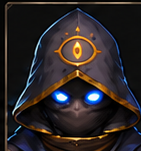
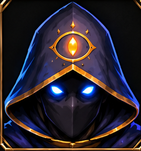
v1-15-30

diff --git a/public/tri-core.js b/public/tri-core.js
@@ -66,7 +66,7 @@ export class TriReferee{
     this.s={phase:'setup',round:1,turn:'A',roundStarterIndex:0,gameOver:false,result:null,idSeq:1,
       pieces:{A:[],B:[],C:[]},bases:[],bonuses:{A:[],B:[],C:[]},corpses:[],mirrors:[],pendingSlime:[],
       history:{A:[],B:[],C:[]},intel:{A:[],B:[],C:[]},impact:{A:[],B:[],C:[]},combatMarks:{A:[],B:[],C:[]},combatHold:{A:false,B:false,C:false},hints:{A:[],B:[],C:[]},seer:sets(),seerExpires:{A:false,B:false,C:false},activation:{A:null,B:null,C:null},roundActivations:{A:0,B:0,C:0},pendingCombat:null,doppelChoice:{A:null,B:null,C:null},eliminated:{A:false,B:false,C:false},controllers:{A:'human',B:'ai',C:'ai'},difficulty:'normal',
-      trees:[{coord:'A06',state:'live'},{coord:'B06',state:'live'},{coord:'C22',state:'live'}],rocks:['C06','B22','A22'],water:['C02','B18','A18'],swamps:['A17','B21','C05'],traps:{A:[],B:[],C:[]},spotReveals:{A:{},B:{},C:{}},replayEvent:null};
+      trees:[{coord:'A06',state:'live'},{coord:'B21',state:'live'},{coord:'C02',state:'live'}],rocks:['A17','B06','C21'],water:['A22','B18','C05'],swamps:['A02','B05','C18'],traps:{A:[],B:[],C:[]},spotReveals:{A:{},B:{},C:{}},replayEvent:null};
   }
   client(side){if(!TRI_SIDES.includes(side))throw Error('lado inválido');const run=fn=>(...args)=>{this.s.replayEvent=null;return fn(...args);};return Object.freeze({
     getView:()=>this.getView(side),selectPiece:run(id=>this.selectPiece(side,id)),cancelSelection:run(()=>this.cancelSelection(side)),cancelMode:run(()=>this.cancelMode(side)),startMove:run(()=>this.startMove(side)),moveStep:run(to=>this.moveStep(side,to)),stopMove:run(()=>this.stopMove(side)),startAttack:run(()=>this.startAttack(side)),attack:run(to=>this.attack(side,to)),selectPyroTarget:run(to=>this.selectPyroTarget(side,to)),confirmPyroAttack:run(()=>this.confirmPyroAttack(side)),startAbility:run(()=>this.startAbility(side)),useSeer:run(cells=>this.useSeer(side,cells)),raiseAt:run(c=>this.raiseAt(side,c)),placeMirror:run(c=>this.placeMirror(side,c)),awakenTree:run(c=>this.awakenTree(side,c)),placeTrap:run(c=>this.placeTrap(side,c)),bardBuff:run((id,stat)=>this.bardBuff(side,id,stat)),shieldLink:run((id=null)=>this.shieldLink(side,id)),endActivation:run(()=>this.endActivation(side)),chooseCombatPosition:run(advance=>this.chooseCombatPosition(side,advance)),sabotageBase:run((baseId,bonusId,targetId)=>this.sabotageBase(side,baseId,bonusId,targetId)),chooseDoppelCopy:run(copyNew=>this.chooseDoppelCopy(side,copyNew))
@@ -199,7 +199,7 @@ export class TriReferee{
   checkEnd(){const alive=TRI_SIDES.filter(s=>!this.s.eliminated[s]);if(alive.length===1){this.s.gameOver=true;this.s.result=alive[0];for(const s of TRI_SIDES)this.addHistory(s,`🏆 Jogador ${alive[0]} venceu a Arena.`);return true;}if(!alive.length){this.s.gameOver=true;this.s.result='draw';return true;}return false;}
   advance(afterSide){const hasLeft=s=>this.hasActivationLeft(s);if(!TRI_SIDES.some(hasLeft)){this.s.round++;for(const s of TRI_SIDES)for(const p of this.pieces(s)){p.activated=false;this.tickPieceEffects(p,'round');}this.s.roundActivations={A:0,B:0,C:0};this.processZombieRevives();this.s.roundStarterIndex=((Number(this.s.roundStarterIndex)||0)+1)%3;const order=[0,1,2].map(k=>TRI_SIDES[(this.s.roundStarterIndex+k)%3]);this.s.turn=order.find(hasLeft)||order.find(s=>!this.s.eliminated[s])||'A';for(const s of TRI_SIDES)this.addHistory(s,`🔄 Rodada ${this.s.round} começou. Ordem de prioridade: ${order.join(' → ')}.`);return;}const idx=TRI_SIDES.indexOf(afterSide);for(let k=1;k<=3;k++){const s=TRI_SIDES[(idx+k)%3];if(hasLeft(s)){this.s.turn=s;return;}}this.s.turn=afterSide;}
   exportState(){return JSON.stringify(this.s,(k,v)=>v instanceof Set?{__set:[...v]}:v);}
-  importState(raw){this.s=JSON.parse(raw,(k,v)=>v&&Array.isArray(v.__set)?new Set(v.__set):v);if(!this.s.trees)this.s.trees=[{coord:'A06',state:'live'},{coord:'B06',state:'live'},{coord:'C22',state:'live'}];if(!this.s.rocks)this.s.rocks=['C06','B22','A22'];if(!this.s.water)this.s.water=['C02','B18','A18'];if(!this.s.swamps)this.s.swamps=['A17','B21','C05'];if(!this.s.traps)this.s.traps={A:[],B:[],C:[]};if(!this.s.spotReveals)this.s.spotReveals={A:{},B:{},C:{}};if(this.s.roundStarterIndex==null)this.s.roundStarterIndex=0;if(!this.s.roundActivations)this.s.roundActivations={A:0,B:0,C:0};if(!this.s.impact)this.s.impact={A:[],B:[],C:[]};if(!this.s.combatMarks)this.s.combatMarks={A:[],B:[],C:[]};if(!this.s.combatHold)this.s.combatHold={A:false,B:false,C:false};if(this.s.replayEvent===undefined)this.s.replayEvent=null;for(const s of TRI_SIDES)if(!Array.isArray(this.s.impact[s]))this.s.impact[s]=this.s.impact[s]?[this.s.impact[s]]:[];for(const side of TRI_SIDES)for(const p of this.pieces(side)){if(!Array.isArray(p.effects))p.effects=[];if(p.bonusAH==null)p.bonusAH=0;if(p.turnsTaken==null)p.turnsTaken=0;if(!p.identity)p.identity=p.name;if(p.linkedToId===undefined)p.linkedToId=null;}}
+  importState(raw){this.s=JSON.parse(raw,(k,v)=>v&&Array.isArray(v.__set)?new Set(v.__set):v);if(!this.s.trees)this.s.trees=[{coord:'A06',state:'live'},{coord:'B21',state:'live'},{coord:'C02',state:'live'}];if(!this.s.rocks)this.s.rocks=['A17','B06','C21'];if(!this.s.water)this.s.water=['A22','B18','C05'];if(!this.s.swamps)this.s.swamps=['A02','B05','C18'];if(!this.s.traps)this.s.traps={A:[],B:[],C:[]};if(!this.s.spotReveals)this.s.spotReveals={A:{},B:{},C:{}};if(this.s.roundStarterIndex==null)this.s.roundStarterIndex=0;if(!this.s.roundActivations)this.s.roundActivations={A:0,B:0,C:0};if(!this.s.impact)this.s.impact={A:[],B:[],C:[]};if(!this.s.combatMarks)this.s.combatMarks={A:[],B:[],C:[]};if(!this.s.combatHold)this.s.combatHold={A:false,B:false,C:false};if(this.s.replayEvent===undefined)this.s.replayEvent=null;for(const s of TRI_SIDES)if(!Array.isArray(this.s.impact[s]))this.s.impact[s]=this.s.impact[s]?[this.s.impact[s]]:[];for(const side of TRI_SIDES)for(const p of this.pieces(side)){if(!Array.isArray(p.effects))p.effects=[];if(p.bonusAH==null)p.bonusAH=0;if(p.turnsTaken==null)p.turnsTaken=0;if(!p.identity)p.identity=p.name;if(p.linkedToId===undefined)p.linkedToId=null;}}
 
 }
 

diff --git a/src/tri-core.js b/src/tri-core.js
@@ -66,7 +66,7 @@ export class TriReferee{
     this.s={phase:'setup',round:1,turn:'A',roundStarterIndex:0,gameOver:false,result:null,idSeq:1,
       pieces:{A:[],B:[],C:[]},bases:[],bonuses:{A:[],B:[],C:[]},corpses:[],mirrors:[],pendingSlime:[],
       history:{A:[],B:[],C:[]},intel:{A:[],B:[],C:[]},impact:{A:[],B:[],C:[]},combatMarks:{A:[],B:[],C:[]},combatHold:{A:false,B:false,C:false},hints:{A:[],B:[],C:[]},seer:sets(),seerExpires:{A:false,B:false,C:false},activation:{A:null,B:null,C:null},roundActivations:{A:0,B:0,C:0},pendingCombat:null,doppelChoice:{A:null,B:null,C:null},eliminated:{A:false,B:false,C:false},controllers:{A:'human',B:'ai',C:'ai'},difficulty:'normal',
-      trees:[{coord:'A06',state:'live'},{coord:'B06',state:'live'},{coord:'C22',state:'live'}],rocks:['C06','B22','A22'],water:['C02','B18','A18'],swamps:['A17','B21','C05'],traps:{A:[],B:[],C:[]},spotReveals:{A:{},B:{},C:{}},replayEvent:null};
+      trees:[{coord:'A06',state:'live'},{coord:'B21',state:'live'},{coord:'C02',state:'live'}],rocks:['A17','B06','C21'],water:['A22','B18','C05'],swamps:['A02','B05','C18'],traps:{A:[],B:[],C:[]},spotReveals:{A:{},B:{},C:{}},replayEvent:null};
   }
   client(side){if(!TRI_SIDES.includes(side))throw Error('lado inválido');const run=fn=>(...args)=>{this.s.replayEvent=null;return fn(...args);};return Object.freeze({
     getView:()=>this.getView(side),selectPiece:run(id=>this.selectPiece(side,id)),cancelSelection:run(()=>this.cancelSelection(side)),cancelMode:run(()=>this.cancelMode(side)),startMove:run(()=>this.startMove(side)),moveStep:run(to=>this.moveStep(side,to)),stopMove:run(()=>this.stopMove(side)),startAttack:run(()=>this.startAttack(side)),attack:run(to=>this.attack(side,to)),selectPyroTarget:run(to=>this.selectPyroTarget(side,to)),confirmPyroAttack:run(()=>this.confirmPyroAttack(side)),startAbility:run(()=>this.startAbility(side)),useSeer:run(cells=>this.useSeer(side,cells)),raiseAt:run(c=>this.raiseAt(side,c)),placeMirror:run(c=>this.placeMirror(side,c)),awakenTree:run(c=>this.awakenTree(side,c)),placeTrap:run(c=>this.placeTrap(side,c)),bardBuff:run((id,stat)=>this.bardBuff(side,id,stat)),shieldLink:run((id=null)=>this.shieldLink(side,id)),endActivation:run(()=>this.endActivation(side)),chooseCombatPosition:run(advance=>this.chooseCombatPosition(side,advance)),sabotageBase:run((baseId,bonusId,targetId)=>this.sabotageBase(side,baseId,bonusId,targetId)),chooseDoppelCopy:run(copyNew=>this.chooseDoppelCopy(side,copyNew))
@@ -199,7 +199,7 @@ export class TriReferee{
   checkEnd(){const alive=TRI_SIDES.filter(s=>!this.s.eliminated[s]);if(alive.length===1){this.s.gameOver=true;this.s.result=alive[0];for(const s of TRI_SIDES)this.addHistory(s,`🏆 Jogador ${alive[0]} venceu a Arena.`);return true;}if(!alive.length){this.s.gameOver=true;this.s.result='draw';return true;}return false;}
   advance(afterSide){const hasLeft=s=>this.hasActivationLeft(s);if(!TRI_SIDES.some(hasLeft)){this.s.round++;for(const s of TRI_SIDES)for(const p of this.pieces(s)){p.activated=false;this.tickPieceEffects(p,'round');}this.s.roundActivations={A:0,B:0,C:0};this.processZombieRevives();this.s.roundStarterIndex=((Number(this.s.roundStarterIndex)||0)+1)%3;const order=[0,1,2].map(k=>TRI_SIDES[(this.s.roundStarterIndex+k)%3]);this.s.turn=order.find(hasLeft)||order.find(s=>!this.s.eliminated[s])||'A';for(const s of TRI_SIDES)this.addHistory(s,`🔄 Rodada ${this.s.round} começou. Ordem de prioridade: ${order.join(' → ')}.`);return;}const idx=TRI_SIDES.indexOf(afterSide);for(let k=1;k<=3;k++){const s=TRI_SIDES[(idx+k)%3];if(hasLeft(s)){this.s.turn=s;return;}}this.s.turn=afterSide;}
   exportState(){return JSON.stringify(this.s,(k,v)=>v instanceof Set?{__set:[...v]}:v);}
-  importState(raw){this.s=JSON.parse(raw,(k,v)=>v&&Array.isArray(v.__set)?new Set(v.__set):v);if(!this.s.trees)this.s.trees=[{coord:'A06',state:'live'},{coord:'B06',state:'live'},{coord:'C22',state:'live'}];if(!this.s.rocks)this.s.rocks=['C06','B22','A22'];if(!this.s.water)this.s.water=['C02','B18','A18'];if(!this.s.swamps)this.s.swamps=['A17','B21','C05'];if(!this.s.traps)this.s.traps={A:[],B:[],C:[]};if(!this.s.spotReveals)this.s.spotReveals={A:{},B:{},C:{}};if(this.s.roundStarterIndex==null)this.s.roundStarterIndex=0;if(!this.s.roundActivations)this.s.roundActivations={A:0,B:0,C:0};if(!this.s.impact)this.s.impact={A:[],B:[],C:[]};if(!this.s.combatMarks)this.s.combatMarks={A:[],B:[],C:[]};if(!this.s.combatHold)this.s.combatHold={A:false,B:false,C:false};if(this.s.replayEvent===undefined)this.s.replayEvent=null;for(const s of TRI_SIDES)if(!Array.isArray(this.s.impact[s]))this.s.impact[s]=this.s.impact[s]?[this.s.impact[s]]:[];for(const side of TRI_SIDES)for(const p of this.pieces(side)){if(!Array.isArray(p.effects))p.effects=[];if(p.bonusAH==null)p.bonusAH=0;if(p.turnsTaken==null)p.turnsTaken=0;if(!p.identity)p.identity=p.name;if(p.linkedToId===undefined)p.linkedToId=null;}}
+  importState(raw){this.s=JSON.parse(raw,(k,v)=>v&&Array.isArray(v.__set)?new Set(v.__set):v);if(!this.s.trees)this.s.trees=[{coord:'A06',state:'live'},{coord:'B21',state:'live'},{coord:'C02',state:'live'}];if(!this.s.rocks)this.s.rocks=['A17','B06','C21'];if(!this.s.water)this.s.water=['A22','B18','C05'];if(!this.s.swamps)this.s.swamps=['A02','B05','C18'];if(!this.s.traps)this.s.traps={A:[],B:[],C:[]};if(!this.s.spotReveals)this.s.spotReveals={A:{},B:{},C:{}};if(this.s.roundStarterIndex==null)this.s.roundStarterIndex=0;if(!this.s.roundActivations)this.s.roundActivations={A:0,B:0,C:0};if(!this.s.impact)this.s.impact={A:[],B:[],C:[]};if(!this.s.combatMarks)this.s.combatMarks={A:[],B:[],C:[]};if(!this.s.combatHold)this.s.combatHold={A:false,B:false,C:false};if(this.s.replayEvent===undefined)this.s.replayEvent=null;for(const s of TRI_SIDES)if(!Array.isArray(this.s.impact[s]))this.s.impact[s]=this.s.impact[s]?[this.s.impact[s]]:[];for(const side of TRI_SIDES)for(const p of this.pieces(side)){if(!Array.isArray(p.effects))p.effects=[];if(p.bonusAH==null)p.bonusAH=0;if(p.turnsTaken==null)p.turnsTaken=0;if(!p.identity)p.identity=p.name;if(p.linkedToId===undefined)p.linkedToId=null;}}
 
 }
 

diff --git a/public/tri-core-global.js b/public/tri-core-global.js
@@ -67,7 +67,7 @@ class TriReferee{
     this.s={phase:'setup',round:1,turn:'A',roundStarterIndex:0,gameOver:false,result:null,idSeq:1,
       pieces:{A:[],B:[],C:[]},bases:[],bonuses:{A:[],B:[],C:[]},corpses:[],mirrors:[],pendingSlime:[],
       history:{A:[],B:[],C:[]},intel:{A:[],B:[],C:[]},impact:{A:[],B:[],C:[]},combatMarks:{A:[],B:[],C:[]},combatHold:{A:false,B:false,C:false},hints:{A:[],B:[],C:[]},seer:sets(),seerExpires:{A:false,B:false,C:false},activation:{A:null,B:null,C:null},roundActivations:{A:0,B:0,C:0},pendingCombat:null,doppelChoice:{A:null,B:null,C:null},eliminated:{A:false,B:false,C:false},controllers:{A:'human',B:'ai',C:'ai'},difficulty:'normal',
-      trees:[{coord:'A06',state:'live'},{coord:'B06',state:'live'},{coord:'C22',state:'live'}],rocks:['C06','B22','A22'],water:['C02','B18','A18'],swamps:['A17','B21','C05'],traps:{A:[],B:[],C:[]},spotReveals:{A:{},B:{},C:{}},replayEvent:null};
+      trees:[{coord:'A06',state:'live'},{coord:'B21',state:'live'},{coord:'C02',state:'live'}],rocks:['A17','B06','C21'],water:['A22','B18','C05'],swamps:['A02','B05','C18'],traps:{A:[],B:[],C:[]},spotReveals:{A:{},B:{},C:{}},replayEvent:null};
   }
   client(side){if(!TRI_SIDES.includes(side))throw Error('lado inválido');const run=fn=>(...args)=>{this.s.replayEvent=null;return fn(...args);};return Object.freeze({
     getView:()=>this.getView(side),selectPiece:run(id=>this.selectPiece(side,id)),cancelSelection:run(()=>this.cancelSelection(side)),cancelMode:run(()=>this.cancelMode(side)),startMove:run(()=>this.startMove(side)),moveStep:run(to=>this.moveStep(side,to)),stopMove:run(()=>this.stopMove(side)),startAttack:run(()=>this.startAttack(side)),attack:run(to=>this.attack(side,to)),selectPyroTarget:run(to=>this.selectPyroTarget(side,to)),confirmPyroAttack:run(()=>this.confirmPyroAttack(side)),startAbility:run(()=>this.startAbility(side)),useSeer:run(cells=>this.useSeer(side,cells)),raiseAt:run(c=>this.raiseAt(side,c)),placeMirror:run(c=>this.placeMirror(side,c)),awakenTree:run(c=>this.awakenTree(side,c)),placeTrap:run(c=>this.placeTrap(side,c)),bardBuff:run((id,stat)=>this.bardBuff(side,id,stat)),shieldLink:run((id=null)=>this.shieldLink(side,id)),endActivation:run(()=>this.endActivation(side)),chooseCombatPosition:run(advance=>this.chooseCombatPosition(side,advance)),sabotageBase:run((baseId,bonusId,targetId)=>this.sabotageBase(side,baseId,bonusId,targetId)),chooseDoppelCopy:run(copyNew=>this.chooseDoppelCopy(side,copyNew))
@@ -200,7 +200,7 @@ class TriReferee{
   checkEnd(){const alive=TRI_SIDES.filter(s=>!this.s.eliminated[s]);if(alive.length===1){this.s.gameOver=true;this.s.result=alive[0];for(const s of TRI_SIDES)this.addHistory(s,`🏆 Jogador ${alive[0]} venceu a Arena.`);return true;}if(!alive.length){this.s.gameOver=true;this.s.result='draw';return true;}return false;}
   advance(afterSide){const hasLeft=s=>this.hasActivationLeft(s);if(!TRI_SIDES.some(hasLeft)){this.s.round++;for(const s of TRI_SIDES)for(const p of this.pieces(s)){p.activated=false;this.tickPieceEffects(p,'round');}this.s.roundActivations={A:0,B:0,C:0};this.processZombieRevives();this.s.roundStarterIndex=((Number(this.s.roundStarterIndex)||0)+1)%3;const order=[0,1,2].map(k=>TRI_SIDES[(this.s.roundStarterIndex+k)%3]);this.s.turn=order.find(hasLeft)||order.find(s=>!this.s.eliminated[s])||'A';for(const s of TRI_SIDES)this.addHistory(s,`🔄 Rodada ${this.s.round} começou. Ordem de prioridade: ${order.join(' → ')}.`);return;}const idx=TRI_SIDES.indexOf(afterSide);for(let k=1;k<=3;k++){const s=TRI_SIDES[(idx+k)%3];if(hasLeft(s)){this.s.turn=s;return;}}this.s.turn=afterSide;}
   exportState(){return JSON.stringify(this.s,(k,v)=>v instanceof Set?{__set:[...v]}:v);}
-  importState(raw){this.s=JSON.parse(raw,(k,v)=>v&&Array.isArray(v.__set)?new Set(v.__set):v);if(!this.s.trees)this.s.trees=[{coord:'A06',state:'live'},{coord:'B06',state:'live'},{coord:'C22',state:'live'}];if(!this.s.rocks)this.s.rocks=['C06','B22','A22'];if(!this.s.water)this.s.water=['C02','B18','A18'];if(!this.s.swamps)this.s.swamps=['A17','B21','C05'];if(!this.s.traps)this.s.traps={A:[],B:[],C:[]};if(!this.s.spotReveals)this.s.spotReveals={A:{},B:{},C:{}};if(this.s.roundStarterIndex==null)this.s.roundStarterIndex=0;if(!this.s.roundActivations)this.s.roundActivations={A:0,B:0,C:0};if(!this.s.impact)this.s.impact={A:[],B:[],C:[]};if(!this.s.combatMarks)this.s.combatMarks={A:[],B:[],C:[]};if(!this.s.combatHold)this.s.combatHold={A:false,B:false,C:false};if(this.s.replayEvent===undefined)this.s.replayEvent=null;for(const s of TRI_SIDES)if(!Array.isArray(this.s.impact[s]))this.s.impact[s]=this.s.impact[s]?[this.s.impact[s]]:[];for(const side of TRI_SIDES)for(const p of this.pieces(side)){if(!Array.isArray(p.effects))p.effects=[];if(p.bonusAH==null)p.bonusAH=0;if(p.turnsTaken==null)p.turnsTaken=0;if(!p.identity)p.identity=p.name;if(p.linkedToId===undefined)p.linkedToId=null;}}
+  importState(raw){this.s=JSON.parse(raw,(k,v)=>v&&Array.isArray(v.__set)?new Set(v.__set):v);if(!this.s.trees)this.s.trees=[{coord:'A06',state:'live'},{coord:'B21',state:'live'},{coord:'C02',state:'live'}];if(!this.s.rocks)this.s.rocks=['A17','B06','C21'];if(!this.s.water)this.s.water=['A22','B18','C05'];if(!this.s.swamps)this.s.swamps=['A02','B05','C18'];if(!this.s.traps)this.s.traps={A:[],B:[],C:[]};if(!this.s.spotReveals)this.s.spotReveals={A:{},B:{},C:{}};if(this.s.roundStarterIndex==null)this.s.roundStarterIndex=0;if(!this.s.roundActivations)this.s.roundActivations={A:0,B:0,C:0};if(!this.s.impact)this.s.impact={A:[],B:[],C:[]};if(!this.s.combatMarks)this.s.combatMarks={A:[],B:[],C:[]};if(!this.s.combatHold)this.s.combatHold={A:false,B:false,C:false};if(this.s.replayEvent===undefined)this.s.replayEvent=null;for(const s of TRI_SIDES)if(!Array.isArray(this.s.impact[s]))this.s.impact[s]=this.s.impact[s]?[this.s.impact[s]]:[];for(const side of TRI_SIDES)for(const p of this.pieces(side)){if(!Array.isArray(p.effects))p.effects=[];if(p.bonusAH==null)p.bonusAH=0;if(p.turnsTaken==null)p.turnsTaken=0;if(!p.identity)p.identity=p.name;if(p.linkedToId===undefined)p.linkedToId=null;}}
 
 }
 

diff --git a/src/worker.js b/src/worker.js
@@ -145,7 +145,7 @@ __refRoot.GameReferee = class GameReferee {
       history:{player:[],enemy:[]}, intel:{player:[],enemy:[]}, impact:{player:null,enemy:null}, combatMarks:{player:[],enemy:[]}, combatHold:{player:false,enemy:false}, perceptionHints:{player:[],enemy:[]},
       seer:{player:new Set(),enemy:new Set()}, seerExpires:{player:false,enemy:false},
       activation:{player:null,enemy:null}, roundActivations:{player:0,enemy:0}, pendingCombat:null, doppelChoice:{player:null,enemy:null},
-      trees:[{coord:'B3',state:'live'},{coord:'G6',state:'live'}], rocks:['F2','C7'], water:['E3','D6'], swamps:['C5','F4'], traps:{player:[],enemy:[]}, spotReveals:{player:{},enemy:{}}, replayEvent:null
+      trees:[{coord:'B3',state:'live'},{coord:'G6',state:'live'}], rocks:['F2','C7'], water:['D3','E6'], swamps:['C5','F4'], traps:{player:[],enemy:[]}, spotReveals:{player:{},enemy:{}}, replayEvent:null
     };
   }
 
@@ -888,7 +888,7 @@ __refRoot.GameReferee = class GameReferee {
     return JSON.stringify(this.#s,(k,v)=>v instanceof Set?{__set:[...v]}:v);
   }
   importState(raw){
-    if(!raw)return;this.#s=JSON.parse(raw,(k,v)=>v&&typeof v==='object'&&Array.isArray(v.__set)?new Set(v.__set):v);if(!this.#s.doppelChoice)this.#s.doppelChoice={player:null,enemy:null};if(!this.#s.roundStarter)this.#s.roundStarter='player';if(!this.#s.roundActivations)this.#s.roundActivations={player:0,enemy:0};if(!this.#s.trees)this.#s.trees=[{coord:'B3',state:'live'},{coord:'G6',state:'live'}];if(!this.#s.rocks)this.#s.rocks=['F2','C7'];if(!this.#s.water)this.#s.water=['E3','D6'];if(!this.#s.swamps)this.#s.swamps=['C5','F4'];if(!this.#s.traps)this.#s.traps={player:[],enemy:[]};if(!this.#s.spotReveals)this.#s.spotReveals={player:{},enemy:{}};if(!this.#s.combatMarks)this.#s.combatMarks={player:[],enemy:[]};if(!this.#s.combatHold)this.#s.combatHold={player:false,enemy:false};if(this.#s.replayEvent===undefined)this.#s.replayEvent=null;for(const side of ['player','enemy'])for(const p of this.#pieces(side)){if(!Array.isArray(p.effects))p.effects=[];if(p.bonusAH==null)p.bonusAH=0;if(p.turnsTaken==null)p.turnsTaken=0;if(p.linkedToId===undefined)p.linkedToId=null;}
+    if(!raw)return;this.#s=JSON.parse(raw,(k,v)=>v&&typeof v==='object'&&Array.isArray(v.__set)?new Set(v.__set):v);if(!this.#s.doppelChoice)this.#s.doppelChoice={player:null,enemy:null};if(!this.#s.roundStarter)this.#s.roundStarter='player';if(!this.#s.roundActivations)this.#s.roundActivations={player:0,enemy:0};if(!this.#s.trees)this.#s.trees=[{coord:'B3',state:'live'},{coord:'G6',state:'live'}];if(!this.#s.rocks)this.#s.rocks=['F2','C7'];if(!this.#s.water)this.#s.water=['D3','E6'];if(!this.#s.swamps)this.#s.swamps=['C5','F4'];if(!this.#s.traps)this.#s.traps={player:[],enemy:[]};if(!this.#s.spotReveals)this.#s.spotReveals={player:{},enemy:{}};if(!this.#s.combatMarks)this.#s.combatMarks={player:[],enemy:[]};if(!this.#s.combatHold)this.#s.combatHold={player:false,enemy:false};if(this.#s.replayEvent===undefined)this.#s.replayEvent=null;for(const side of ['player','enemy'])for(const p of this.#pieces(side)){if(!Array.isArray(p.effects))p.effects=[];if(p.bonusAH==null)p.bonusAH=0;if(p.turnsTaken==null)p.turnsTaken=0;if(p.linkedToId===undefined)p.linkedToId=null;}
   }
 
 };

diff --git a/public/referee.js b/public/referee.js
@@ -13,7 +13,7 @@ __refRoot.GameReferee = class GameReferee {
       history:{player:[],enemy:[]}, intel:{player:[],enemy:[]}, impact:{player:null,enemy:null}, combatMarks:{player:[],enemy:[]}, combatHold:{player:false,enemy:false}, perceptionHints:{player:[],enemy:[]},
       seer:{player:new Set(),enemy:new Set()}, seerExpires:{player:false,enemy:false},
       activation:{player:null,enemy:null}, roundActivations:{player:0,enemy:0}, pendingCombat:null, doppelChoice:{player:null,enemy:null},
-      trees:[{coord:'B3',state:'live'},{coord:'G6',state:'live'}], rocks:['F2','C7'], water:['E3','D6'], swamps:['C5','F4'], traps:{player:[],enemy:[]}, spotReveals:{player:{},enemy:{}}, replayEvent:null
+      trees:[{coord:'B3',state:'live'},{coord:'G6',state:'live'}], rocks:['F2','C7'], water:['D3','E6'], swamps:['C5','F4'], traps:{player:[],enemy:[]}, spotReveals:{player:{},enemy:{}}, replayEvent:null
     };
   }
 
@@ -756,7 +756,7 @@ __refRoot.GameReferee = class GameReferee {
     return JSON.stringify(this.#s,(k,v)=>v instanceof Set?{__set:[...v]}:v);
   }
   #importState(raw){
-    if(!raw)return;this.#s=JSON.parse(raw,(k,v)=>v&&typeof v==='object'&&Array.isArray(v.__set)?new Set(v.__set):v);if(!this.#s.doppelChoice)this.#s.doppelChoice={player:null,enemy:null};if(!this.#s.roundStarter)this.#s.roundStarter='player';if(!this.#s.roundActivations)this.#s.roundActivations={player:0,enemy:0};if(!this.#s.trees)this.#s.trees=[{coord:'B3',state:'live'},{coord:'G6',state:'live'}];if(!this.#s.rocks)this.#s.rocks=['F2','C7'];if(!this.#s.water)this.#s.water=['E3','D6'];if(!this.#s.swamps)this.#s.swamps=['C5','F4'];if(!this.#s.traps)this.#s.traps={player:[],enemy:[]};if(!this.#s.spotReveals)this.#s.spotReveals={player:{},enemy:{}};if(!this.#s.combatMarks)this.#s.combatMarks={player:[],enemy:[]};if(!this.#s.combatHold)this.#s.combatHold={player:false,enemy:false};if(this.#s.replayEvent===undefined)this.#s.replayEvent=null;for(const side of ['player','enemy'])for(const p of this.#pieces(side)){if(!Array.isArray(p.effects))p.effects=[];if(p.bonusAH==null)p.bonusAH=0;if(p.turnsTaken==null)p.turnsTaken=0;if(p.linkedToId===undefined)p.linkedToId=null;}
+    if(!raw)return;this.#s=JSON.parse(raw,(k,v)=>v&&typeof v==='object'&&Array.isArray(v.__set)?new Set(v.__set):v);if(!this.#s.doppelChoice)this.#s.doppelChoice={player:null,enemy:null};if(!this.#s.roundStarter)this.#s.roundStarter='player';if(!this.#s.roundActivations)this.#s.roundActivations={player:0,enemy:0};if(!this.#s.trees)this.#s.trees=[{coord:'B3',state:'live'},{coord:'G6',state:'live'}];if(!this.#s.rocks)this.#s.rocks=['F2','C7'];if(!this.#s.water)this.#s.water=['D3','E6'];if(!this.#s.swamps)this.#s.swamps=['C5','F4'];if(!this.#s.traps)this.#s.traps={player:[],enemy:[]};if(!this.#s.spotReveals)this.#s.spotReveals={player:{},enemy:{}};if(!this.#s.combatMarks)this.#s.combatMarks={player:[],enemy:[]};if(!this.#s.combatHold)this.#s.combatHold={player:false,enemy:false};if(this.#s.replayEvent===undefined)this.#s.replayEvent=null;for(const side of ['player','enemy'])for(const p of this.#pieces(side)){if(!Array.isArray(p.effects))p.effects=[];if(p.bonusAH==null)p.bonusAH=0;if(p.turnsTaken==null)p.turnsTaken=0;if(p.linkedToId===undefined)p.linkedToId=null;}
   }
 
 };

diff --git a/SAVE_PROJETO_v1_15_30.md b/SAVE_PROJETO_v1_15_30.md
@@ -1,0 +1,18 @@
+# SAVE_PROJETO_v1_15_30
+
+Base: v1.15.29 TESTE GIT.
+
+## Ajustes desta versão
+- Atualizados os retratos principais dos personagens usando a leva nova de imagens geradas, priorizando leitura mais forte por silhueta/rosto.
+- Mantidos os assets antigos que não faziam parte dessa leva (ex.: Mini-Slime e Golem de Lava).
+- Clássico: lago alterado de E3 para D3, mantendo o espelho em E6.
+- Arena: redistribuídos árvore, pedra, lago e pântano para espalhar melhor os cenários pelo mapa, evitando concentração nas duas linhas centrais.
+
+## Distribuição nova da Arena
+- Árvores: A06, B21, C02
+- Pedras: A17, B06, C21
+- Lagos: A22, B18, C05
+- Pântanos: A02, B05, C18
+
+## Observação
+- Regra do pântano continua: entrar custa 2 de movimento; peças com apenas 1 de movimento não conseguem entrar na casa.
